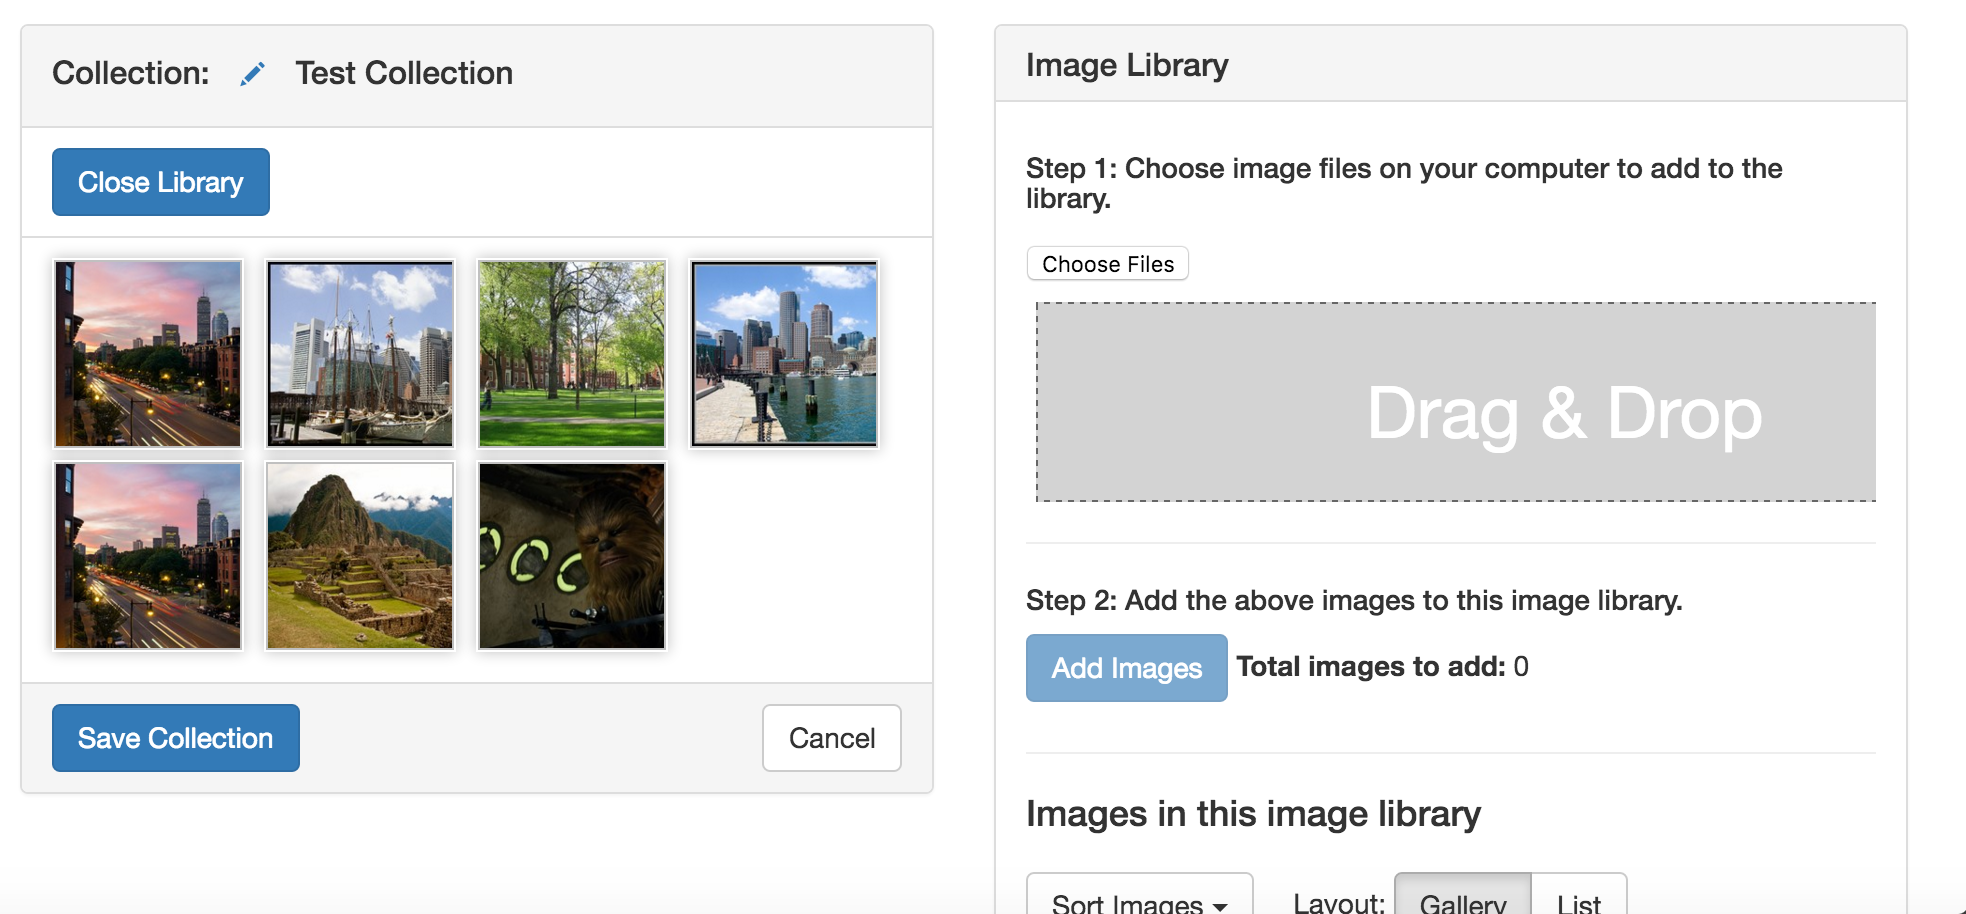
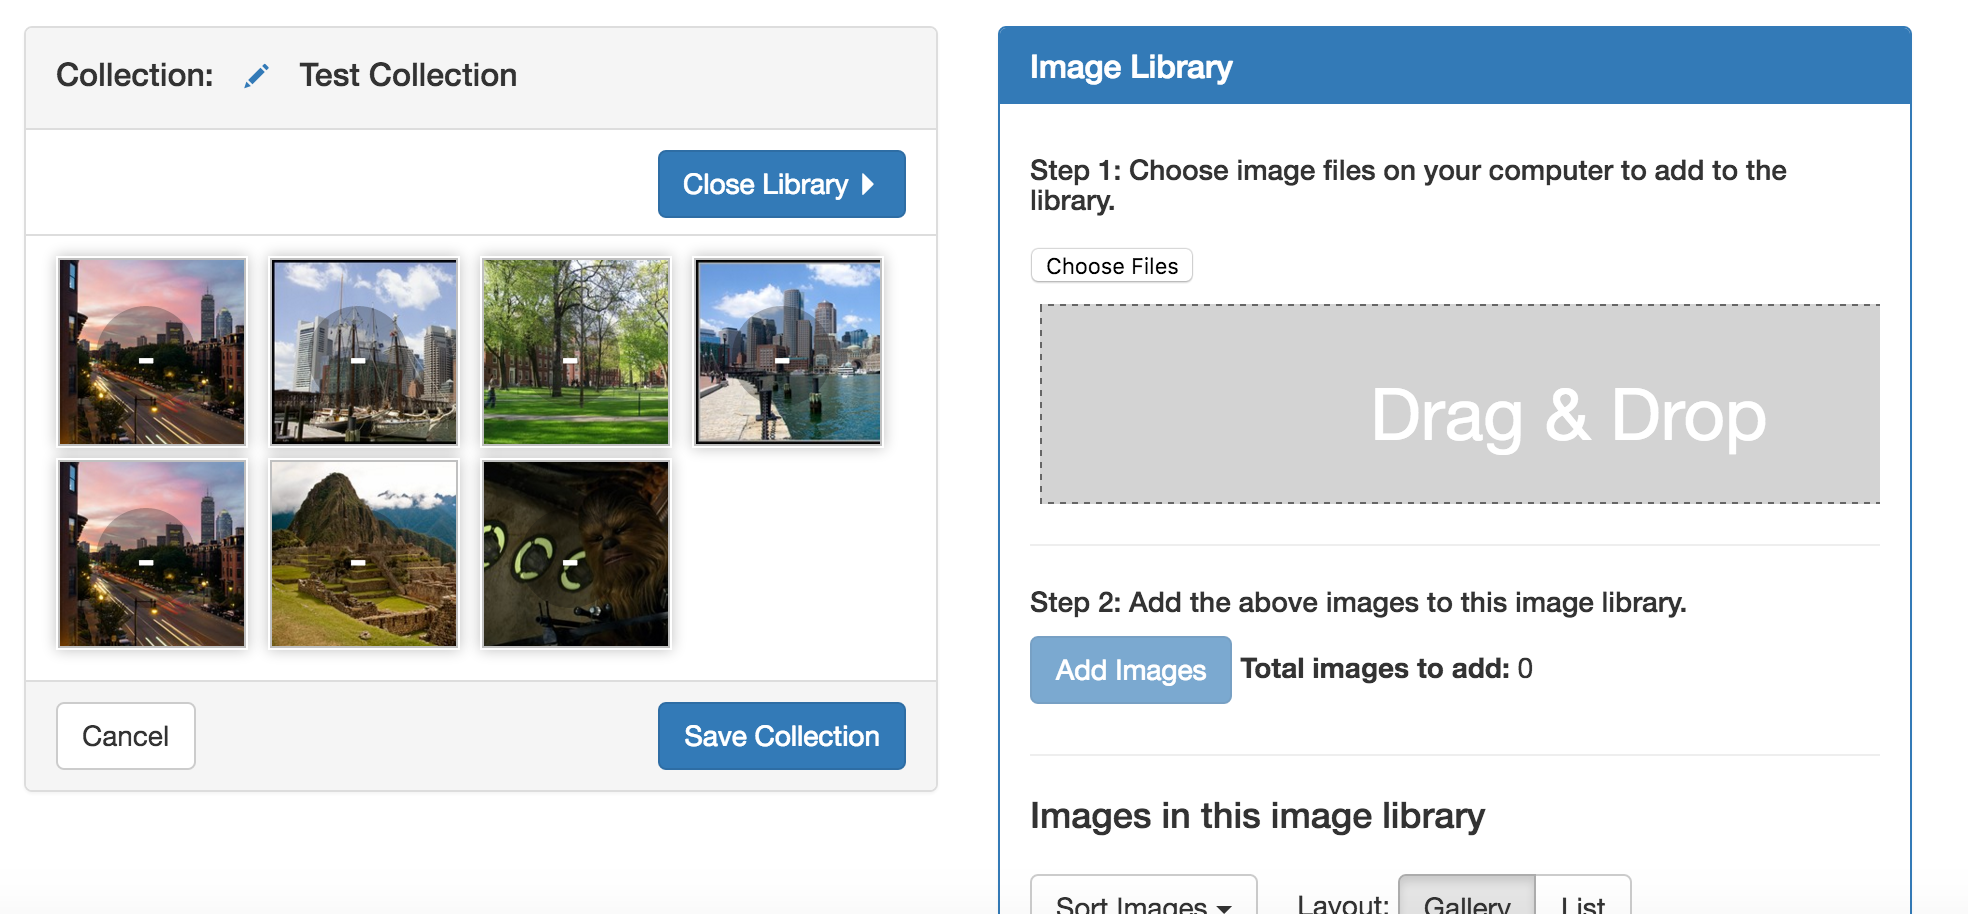
Media Manager - Collection Edit - Image Library, proposed screen capture and UI code

diff --git a/Media_Manager_Collection_Edit_Image_Library/index.html b/Media_Manager_Collection_Edit_Image_Library/index.html
@@ -11,9 +11,10 @@
         </div>
         <ul class="list-group">
           <li class="list-group-item" style="padding-bottom: 3em">
+<!-- UI comment - Pointing the button triangle to the opposite direction, adding an &nbsp; just for a bit of spacing -->
             <button type="button" class="btn btn-primary pull-right" ng-click="wc.hideLibrary = !wc.hideLibrary">
               <!-- ngIf: wc.hideLibrary -->
-              <!-- ngIf: !wc.hideLibrary --><span ng-if="!wc.hideLibrary" class="ng-scope">Close Library</span><!-- end ngIf: !wc.hideLibrary --><small><span class="glyphicon glyphicon-triangle-left" aria-hidden="true"></span></small>
+              <!-- ngIf: !wc.hideLibrary --><span ng-if="!wc.hideLibrary" class="ng-scope">Close Library&nbsp;</span><!-- end ngIf: !wc.hideLibrary --><small><span class="glyphicon glyphicon-triangle-right" aria-hidden="true"></span></small>
             </button>
           </li>
           <li class="list-group-item">
@@ -49,11 +50,13 @@
         </ul>
         <div class="panel-footer">
           <input type="button" class="btn btn-primary pull-right" value="Save Collection" ng-click="wc.saveCollection()" ng-disabled="wc.isSavingCollection.status">
-          <input type="button" class="btn btn-default" style="margin-left: 20px;" value="Cancel" ng-click="wc.cancelCollection()">
+<!-- UI comment - removing style="margin-left: 20px;" -->
+          <input type="button" class="btn btn-default" value="Cancel" ng-click="wc.cancelCollection()">
         </div>
       </div>
     </div>
-    <!-- ngInclude: '/static/app/templates/library.html' --><div ng-include="'/static/app/templates/library.html'" ng-class="wc.hideLibrary ? 'col-md-0' : 'col-md-6'" ng-hide="wc.hideLibrary" class="ng-scope col-md-6" style=""><div class="panel panel-default ng-scope">
+<!-- UI comment - Changing Image Library panel to "primary" -->
+    <!-- ngInclude: '/static/app/templates/library.html' --><div ng-include="'/static/app/templates/library.html'" ng-class="wc.hideLibrary ? 'col-md-0' : 'col-md-6'" ng-hide="wc.hideLibrary" class="ng-scope col-md-6" style=""><div class="panel panel-primary ng-scope">
   <div class="panel-heading">
     <h3 class="panel-title">Image Library</h3>
   </div>
